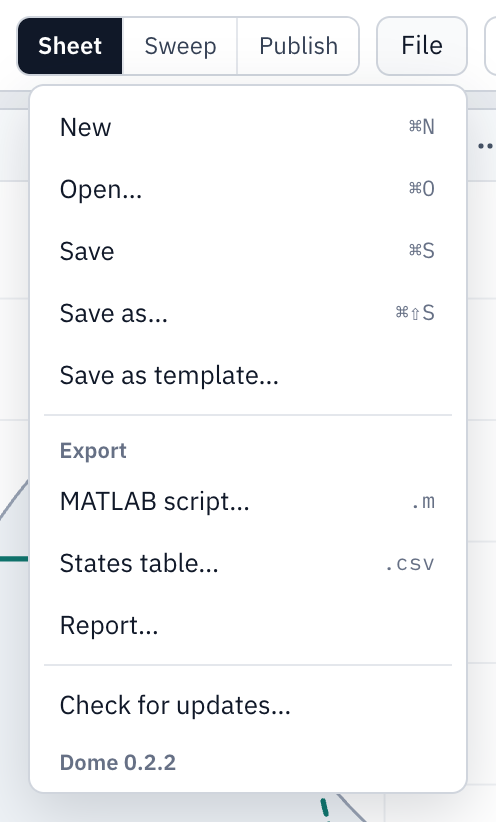
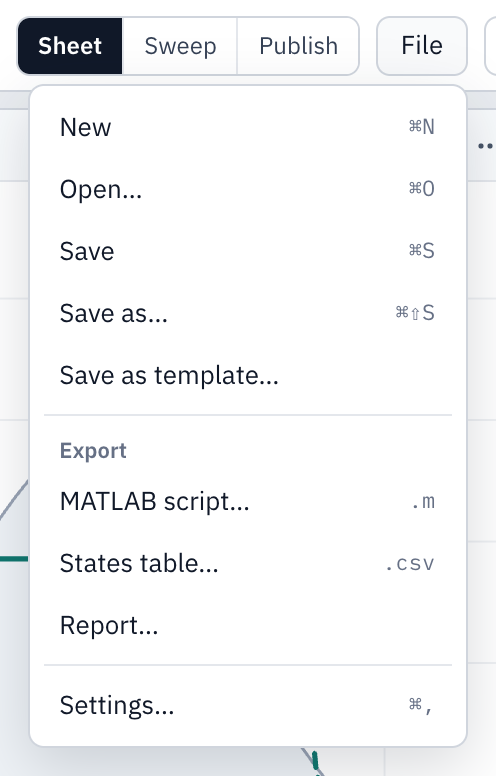
Download page and manual, from ealtabet-teaching/enes232 at dome-v0.2.5

diff --git a/manual/install.html b/manual/install.html
@@ -59,7 +59,7 @@
     <li><b>Units of the results.</b> SI or English units for the values Dome shows.</li>
     <li><b>Layouts.</b> The sheet alone; the sheet and a figure; or files, sheet, figure and results.</li>
     <li><b>Sheet, Sweep, Publish.</b> The three views: the sheet, a sweep of one or two inputs, and the report.</li>
-    <li><b>File menu.</b> New, Open, Save, Save as, Save as template, and the exports.</li>
+    <li><b>File menu.</b> New, Open, Save, Save as, Save as template, the exports, and Settings.</li>
     <li><b>Help menu.</b> The examples, the tour, the language reference, this manual and the licences.</li>
     <li><b>Files.</b> New, Open, Save and Save as, and the list of open sheets.</li>
     <li><b>Workspace.</b> Every variable of the sheet with its value and unit, then the state properties.</li>
@@ -74,6 +74,7 @@
   <li>The menu shows the sheet, Math, a figure, the results, the Workspace, Files, a sweep or Reference in the pane.</li>
   <li>The bar between two panes resizes them.</li>
   <li>On macOS, keyboard shortcuts use <kbd>⌘</kbd>; on Windows and Linux they use <kbd>Ctrl</kbd>.</li>
+  <li>File › Settings sets the theme and checks for updates; see <a href="#settings">Settings</a>.</li>
 </ol>
 
 <h2 id="help-menu" class="lookup">The Help menu</h2>
@@ -97,6 +98,25 @@
   <li>The text of the Reference pane also ends the <a href="reference.html#pane">Reference</a> page.</li>
 </ul>
 
+<h2 id="settings" class="lookup">Settings</h2>
+<p>File › Settings opens the Settings pane beside the current panes. <kbd>⌘</kbd><kbd>,</kbd> on macOS and <kbd>Ctrl</kbd><kbd>,</kbd> on Windows and Linux open it too. The units of the results and Auto-solve stay in the header.</p>
+<figure class="shot wm" style="--fw:729;--fwpx:729px;--nwpx:365px;--ar:729/409;--il:27.71%;--it:5.38%;--iw:44.58%">
+  <div class="frame">
+    <svg class="leaders" viewBox="0 0 729 409" aria-hidden="true"><line x1="561" y1="201.61" x2="521" y2="201.61"/><line x1="168" y1="358.22" x2="208.44" y2="358.22"/></svg>
+    <div class="img"><a href="img/settings.png"><img src="img/settings.png" width="325" height="365" alt="The Settings pane at the right of the window: under Theme the choices Light, Dark and System, and under Updates the version of Dome and the button Check for updates."></a><span class="mks" aria-hidden="true"><span class="mk right" style="left:94.46%;top:49.21%">1</span><span class="mk left" style="left:5.67%;top:92.11%">2</span></span></div>
+    <span class="bubs" aria-hidden="true"><span class="bub right" style="top:49.29%"><b>1</b>Theme</span><span class="bub left" style="top:87.58%"><b>2</b>Updates</span></span>
+  </div>
+  <figcaption><ol class="legend">
+    <li><b>Theme.</b> Light or dark for the window. System follows the computer’s setting.</li>
+    <li><b>Updates.</b> Asks whether a newer version of Dome has been published.</li>
+  </ol></figcaption>
+</figure>
+<ul>
+  <li>Theme sets the window light or dark. System, the default, follows the computer's setting. Exported and copied figures, reports and MATLAB scripts keep the light colors in either theme.</li>
+  <li>Updates shows the version of Dome. In the desktop app, Check for updates asks whether a newer version has been published; see <a href="#updates">Updating Dome</a>.</li>
+  <li>Close pane, at the right of the pane's header, closes it.</li>
+</ul>
+
 <h2 id="updates">Updating Dome</h2>
 <ol class="steps">
   <li>A few seconds after launch, Dome asks whether a newer version has been published. When one has, a bar under the header offers it.</li>
@@ -116,7 +136,7 @@
   </ol></figcaption>
 </figure>
 <ol>
-  <li>File › Check for updates asks again at any time.</li>
+  <li>Check for updates, in File › Settings, asks again at any time.</li>
   <li>When an update fails, the bar gives the reason, and the copy of Dome installed stays as it was.</li>
   <li>The MATLAB toolbox has an update check of its own; see <a href="toolbox.html#updates">The MATLAB toolbox</a>.</li>
 </ol>

diff --git a/manual/publishing.html b/manual/publishing.html
@@ -125,18 +125,18 @@ W_t = mdot * (h_1 - h_2);  % turbine power</code></pre>
   </tbody>
 </table>
 <p>File › Open reads a <code>.dome</code> file, or a <code>.txt</code> or <code>.m</code> file of sheet lines into a new sheet. A sweep chart's export menu adds CSV to the figure's items; see <a href="sweeps.html">Sweeps</a>.</p>
-<figure class="shot wm" style="--fw:652;--fwpx:652px;--nwpx:288px;--ar:652/455;--il:30.98%;--it:4.84%;--iw:38.04%">
+<figure class="shot wm" style="--fw:652;--fwpx:652px;--nwpx:288px;--ar:652/432;--il:30.98%;--it:5.09%;--iw:38.04%">
   <div class="frame">
-    <svg class="leaders" viewBox="0 0 652 455" aria-hidden="true"><line x1="168" y1="209" x2="209.59" y2="209"/><line x1="168" y1="272" x2="209.59" y2="272"/><line x1="168" y1="309.5" x2="209.59" y2="303"/><line x1="168" y1="347" x2="209.59" y2="334"/><line x1="168" y1="384.5" x2="209.59" y2="374"/></svg>
-    <div class="img"><a href="img/file-menu.png"><img src="img/file-menu.png" width="248" height="411" alt="The File menu open: New, Open, Save, Save as, Save as template, then under Export a MATLAB script, the states table and the report, then Check for updates and the version."></a><span class="mks" aria-hidden="true"><span class="mk left" style="left:7.9%;top:45.5%">1</span><span class="mk left" style="left:7.9%;top:60.83%">2</span><span class="mk left" style="left:7.9%;top:68.37%">3</span><span class="mk left" style="left:7.9%;top:75.91%">4</span><span class="mk left" style="left:7.9%;top:85.64%">5</span></span></div>
-    <span class="bubs" aria-hidden="true"><span class="bub left" style="top:45.93%"><b>1</b>Template</span><span class="bub left" style="top:59.78%"><b>2</b>MATLAB script</span><span class="bub left" style="top:68.02%"><b>3</b>States table</span><span class="bub left" style="top:76.26%"><b>4</b>Report</span><span class="bub left" style="top:84.51%"><b>5</b>Updates</span></span>
+    <svg class="leaders" viewBox="0 0 652 432" aria-hidden="true"><line x1="168" y1="209" x2="209.59" y2="209"/><line x1="168" y1="272" x2="209.59" y2="272"/><line x1="168" y1="309.5" x2="209.59" y2="303"/><line x1="168" y1="347" x2="209.59" y2="334"/><line x1="168" y1="384.5" x2="209.59" y2="374"/></svg>
+    <div class="img"><a href="img/file-menu.png"><img src="img/file-menu.png" width="248" height="388" alt="The File menu open: New, Open, Save, Save as, Save as template, then under Export a MATLAB script, the states table and the report, then Settings."></a><span class="mks" aria-hidden="true"><span class="mk left" style="left:7.9%;top:48.2%">1</span><span class="mk left" style="left:7.9%;top:64.43%">2</span><span class="mk left" style="left:7.9%;top:72.42%">3</span><span class="mk left" style="left:7.9%;top:80.41%">4</span><span class="mk left" style="left:7.9%;top:90.72%">5</span></span></div>
+    <span class="bubs" aria-hidden="true"><span class="bub left" style="top:48.38%"><b>1</b>Template</span><span class="bub left" style="top:62.96%"><b>2</b>MATLAB script</span><span class="bub left" style="top:71.64%"><b>3</b>States table</span><span class="bub left" style="top:80.32%"><b>4</b>Report</span><span class="bub left" style="top:89%"><b>5</b>Settings</span></span>
   </div>
   <figcaption><ol class="legend">
     <li><b>Template.</b> A starter sheet: each copy opened from it is a new sheet.</li>
     <li><b>MATLAB script.</b> The sheet as a .m file that uses the Dome toolbox.</li>
     <li><b>States table.</b> The states table as a .csv file.</li>
     <li><b>Report.</b> Opens the Publish view.</li>
-    <li><b>Updates.</b> Asks whether a newer version of Dome has been published.</li>
+    <li><b>Settings.</b> The theme and updates, in a pane beside the current panes.</li>
   </ol></figcaption>
 </figure>
 <figure class="shot wm" style="--fw:652;--fwpx:652px;--nwpx:288px;--ar:652/313;--il:30.98%;--it:7.03%;--iw:38.04%">

diff --git a/manual/states.html b/manual/states.html
@@ -121,6 +121,8 @@ plot ph : 1 -p- 2 -p- 3 -p- 4</code></pre>
   <li>T–v and p–v have v on a logarithmic axis, and p–v and p–h have p on one.</li>
   <li>A figure shows the states of one fluid. A state of another fluid gets a note on the figure, such as "state 3 is water; this figure is r134a".</li>
   <li>The buttons in the pane's header zoom to a box, fit the view to the data, show data tips and export the figure.</li>
+  <li>On a trackpad, pinching zooms the figure in and out about the pointer, and scrolling with two fingers moves a zoomed figure. With a mouse, Ctrl and the wheel zoom.</li>
+  <li>A figure zooms out no further than the view that fits the data, where scrolling does nothing. Fit to data returns to that view at once.</li>
   <li>The boxes under the figure show or hide the previous run, the saturation dome, and the isobars (isotherms on p–v and p–h).</li>
   <li>Isobars run flat through the dome. Those at the pressures of the figure's states are darker and labelled, so each process at constant pressure lies on a labelled line. Isotherms on p–v and p–h work the same way.</li>
 </ol>

diff --git a/manual/sweeps.html b/manual/sweeps.html
@@ -67,6 +67,7 @@ plot x_2 vs p_b</code></pre>
   <li>The slider under the chart steps through the runs, and a dashed line on the chart marks the run it is on. Beside the slider, Dome lists the recorded values of that run.</li>
   <li>Every pane follows the slider: the sheet's values, the Workspace, the states table and the figures show the run it is on.</li>
   <li>A click on the chart moves the slider to the nearest run. A click on a row of the results table moves it to that run.</li>
+  <li>The chart zooms as a figure does. A pinch, or Ctrl and the mouse wheel, zooms about the pointer, and scrolling with two fingers moves a zoomed chart. Fit to data, in the chart's header, shows the whole chart again.</li>
   <li>The results table has a row for each run. Copy, above the table, copies it as tab-separated text.</li>
   <li>Any pane of the Sweep view can show a figure of the sheet: choose it in the pane's menu.</li>
   <li>Leaving the Sweep view returns every pane to the sheet as written.</li>
